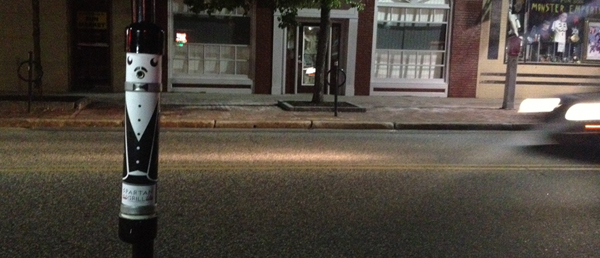
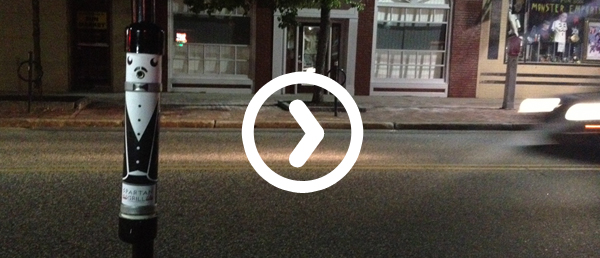
updated content

Changed region(s): [[0.39, 0.2791, 0.63, 0.7442], [0.48, 0.3721, 0.54, 0.6512]]

diff --git a/index.html b/index.html
@@ -8,7 +8,7 @@
 			<img src="images/logo_wht_bg.png" width="108" height="116">
 			<h1>Adopt-a-Buttler</h1>
 			<h2>Good day! May I clean up your city's butts?</h2>
-			<img src="images/buttler_street.jpg" width="600">
+			<a href="http://youtu.be/44SJmKDpXGc"><img src="images/buttler_street.jpg" width="600"></a>
 			<p>
 				Adopt-a-buttler is a solution to cigarette litter.  These friendly, stylish Buttlers want nothing more than your butts in their faces.  By sponsoring a Buttler in your neighborhood you can support cleaner streets and help to turn peoples' bad habits into <a href="http://www.terracycle.com/en-US/brigades/cigarette-waste-brigade.html">useful products</a>.
 			</p>
